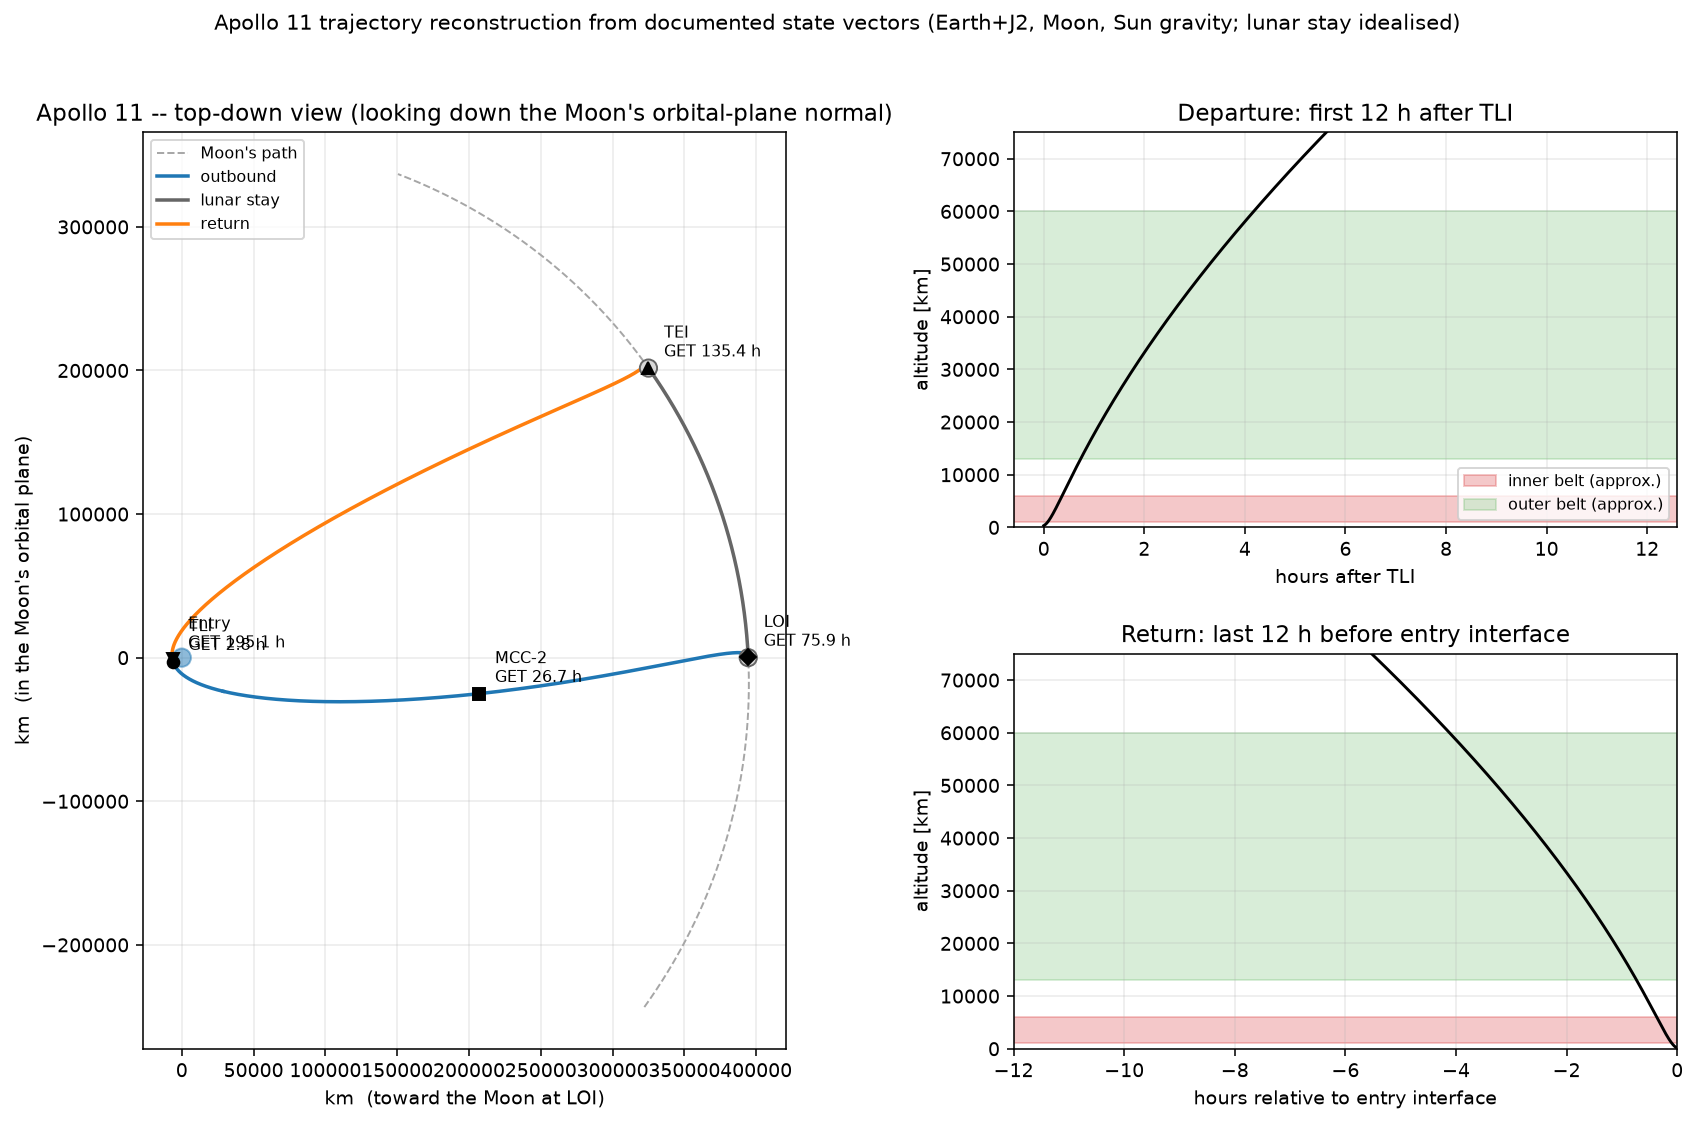
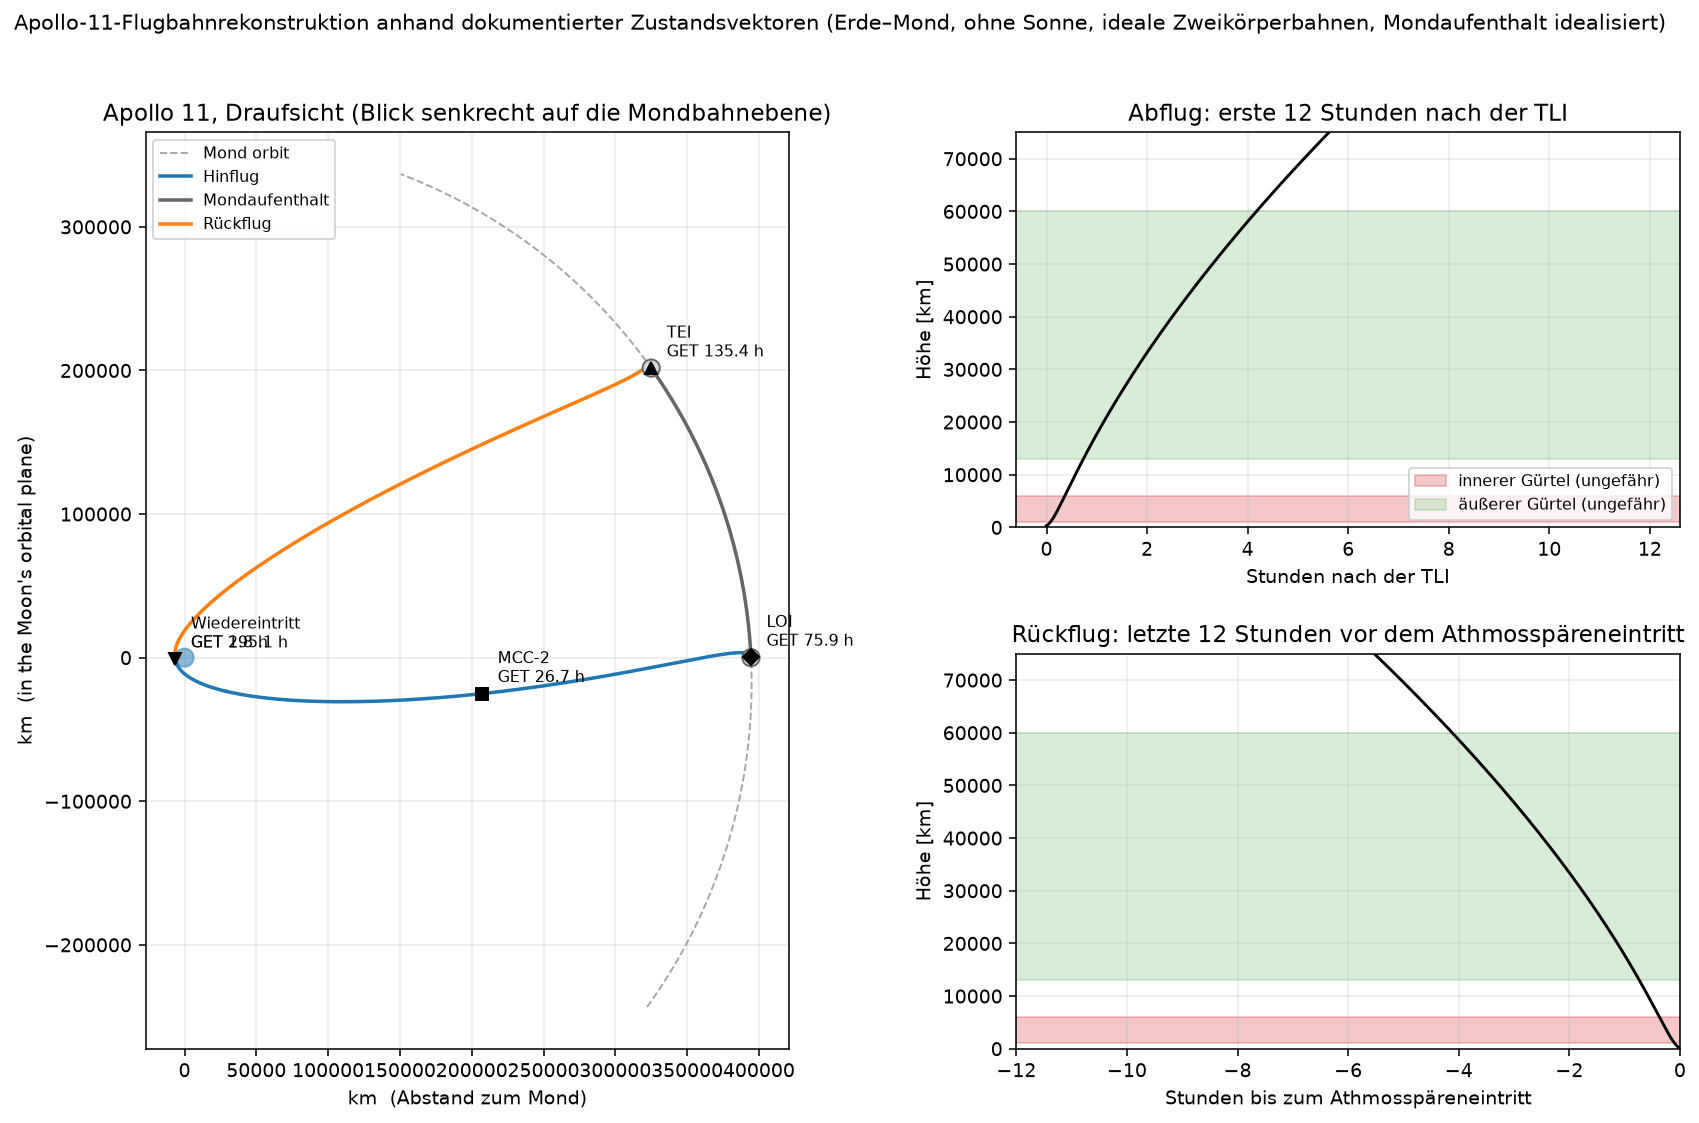
translations

diff --git a/Python Backend/main.py b/Python Backend/main.py
@@ -32,10 +32,8 @@ from funcs_classes import (Ephemeris, Dynamics, state_from_geocentric, precessio
 H = 3600.0
 unit = lambda v: v / np.linalg.norm(v)
 
-
-# ===========================================================================
 # 0. Setup
-# ===========================================================================
+
 eph = Ephemeris(D.GET_TLI, D.GET_ENTRY_INTERFACE + H)
 dyn = Dynamics(eph)
 
@@ -65,18 +63,18 @@ def log(s=""):
     print(s); report.append(s)
 
 
-# ===========================================================================
+
 # 1. CHECK (unfitted): what does the documented TLI vector do on its own?
-# ===========================================================================
+
 free = dyn.propagate(y_tli, D.GET_TLI, D.GET_LOI1 + 3 * H)
 t_free, d_free = closest_approach_to_moon(free, D.GET_LOI1 - 4 * H, D.GET_LOI1 + 3 * H)
 log("CHECK 1 - TLI vector alone, no midcourse burns, full Earth+Moon+Sun gravity:")
 log(f"  reaches the Moon at GET {t_free/H:.2f} h (real LOI: {D.GET_LOI1/H:.2f} h), "
     f"closest approach {d_free - D.LUNAR_RADIUS_KM:,.0f} km above the surface")
 
-# ===========================================================================
+
 # 2. Outbound: TLI -> separation burn -> MCC-2 -> pericynthion
-# ===========================================================================
+
 seg_tli_sep = dyn.propagate(y_tli, D.GET_TLI, D.GET_SEPARATION_BURN)
 y = seg_tli_sep.y[:, -1].copy()
 y[3:] -= D.SEPARATION_BURN_DV_KMS * unit(y[3:])           # [ASSUMED] retrograde
@@ -139,9 +137,9 @@ loi_dv = np.linalg.norm(rel_v) - v_post
 log(f"CHECK 2 - implied LOI burn: {loi_dv*1000:.0f} m/s retrograde (approach speed "
     f"{np.linalg.norm(rel_v):.3f} km/s -> {v_post:.3f} km/s)")
 
-# ===========================================================================
+
 # 3. Return: TEI -> entry interface   (Lambert seed + full-force correction)
-# ===========================================================================
+
 t_tei, t_ei = D.GET_TEI, D.GET_ENTRY_INTERFACE
 moon_tei, moon_vel_tei = eph.moon(t_tei), eph.moon_vel(t_tei)
 to_j2000 = precession_matrix(t_ei).T
@@ -217,9 +215,9 @@ log(f"CHECK 4 - implied TEI burn {tei_dv*1000:.0f} m/s (about 1 km/s expected)")
 log(f"CHECK 5 - implied entry longitude {lon_ei:.1f} deg E; documented splashdown "
     f"13.3 N, 169.2 W is ~1,500 nmi downrange")
 
-# ===========================================================================
+
 # 4. Sample the full trajectory
-# ===========================================================================
+
 def sample(sol, t0, t1, dt):
     ts = np.arange(t0, t1, dt)
     return ts, sol.sol(ts)[:3].T
@@ -248,9 +246,9 @@ all_t = np.concatenate([l[1] for l in legs])
 all_p = np.vstack([l[2] for l in legs])
 alt = np.linalg.norm(all_p, axis=1) - D.R_EARTH
 
-# ---------------------------------------------------------------------------
+
 # Van Allen belts -- v1 model: spherical altitude shells (no geomagnetic tilt)
-# ---------------------------------------------------------------------------
+
 INNER = (1000.0, 6000.0)        # km altitude  [approximate]
 OUTER = (13000.0, 60000.0)
 
@@ -263,16 +261,16 @@ def dwell(t, a, band):
 
 out_mask = all_t < D.GET_TLI + 12 * H
 ret_mask = all_t > t_ei - 12 * H
-log("\nVAN ALLEN BELTS (v1 spherical-shell approximation, NOT the real geomagnetic geometry):")
+log("\nVAN ALLEN BELTS (v1 spherical approximation):")
 for name, m in (("outbound (first 12 h)", out_mask), ("return (last 12 h)", ret_mask)):
     log(f"  {name:22s} inner shell {dwell(all_t[m], alt[m], INNER)/60:6.1f} min | "
         f"outer shell {dwell(all_t[m], alt[m], OUTER)/60:6.1f} min")
-log("  (published estimate using geomagnetic coordinates: ~14 min inside the proton-belt limits, "
-    "outbound -- Hutchison)")
+#log("  (published estimate using geomagnetic coordinates: ~14 min inside the proton-belt limits, "
+#    "outbound -- Hutchison)")
 
-# ===========================================================================
+
 # 5. Figure
-# ===========================================================================
+
 moon_orbit_normal = unit(np.cross(eph.moon(D.GET_LOI1), eph.moon_vel(D.GET_LOI1)))
 e1 = unit(eph.moon(D.GET_LOI1))
 e2 = np.cross(moon_orbit_normal, e1)
@@ -287,18 +285,18 @@ axC = fig.add_subplot(gs[1, 1])
 # --- A: top-down, looking down the Moon's orbital-plane normal -------------
 mt = np.arange(D.GET_TLI, t_ei, 600.0)
 mp = proj(np.array([eph.moon(t) for t in mt]))
-axA.plot(mp[:, 0], mp[:, 1], "--", color="0.65", lw=1, label="Moon's path")
+axA.plot(mp[:, 0], mp[:, 1], "--", color="0.65", lw=1, label="Mond orbit")
 colors = {"tli_to_separation": "tab:blue", "separation_to_mcc2": "tab:blue",
           "mcc2_to_pericynthion": "tab:blue", "lunar_stay_idealised": "0.4", "transearth": "tab:orange"}
 done = set()
 for label, ts, ps in legs:
     q = proj(ps)
-    key = "outbound" if colors[label] == "tab:blue" else ("return" if label == "transearth" else "lunar stay")
+    key = "Hinflug" if colors[label] == "tab:blue" else ("Rückflug" if label == "transearth" else "Mondaufenthalt")
     axA.plot(q[:, 0], q[:, 1], color=colors[label], lw=1.8, label=None if key in done else key)
     done.add(key)
 axA.add_patch(plt.Circle((0, 0), D.R_EARTH, color="tab:blue", alpha=0.5, zorder=3))
-for t, name, mk in ((D.GET_TLI, "TLI", "o"), (D.GET_MCC2, "MCC-2", "s"), (T_PERI, "LOI", "D"),
-                    (t_tei, "TEI", "^"), (t_ei, "Entry", "v")):
+for t, name, mk in ((D.GET_TLI, "", ""), (D.GET_MCC2, "MCC-2", "s"), (T_PERI, "LOI", "D"),
+                    (t_tei, "TEI", "^"), (t_ei, "Wiedereintritt", "v")):
     pt = proj(eph.moon(t) if name in ("LOI", "TEI") else
               (pos0 if name == "TLI" else
                (seg_sep_mcc.sol(t)[:3] if name == "MCC-2" else y_ei[:3])))[0]
@@ -308,29 +306,29 @@ for t, name in ((D.GET_LOI1, "Moon at LOI"), (t_tei, "Moon at TEI")):
     c = proj(eph.moon(t))[0]
     axA.add_patch(plt.Circle(c, 6000, fc="0.85", ec="0.4", zorder=2))   # Moon radius exaggerated 3.5x
 axA.set_aspect("equal"); axA.grid(alpha=0.25)
-axA.set_xlabel("km  (toward the Moon at LOI)"); axA.set_ylabel("km  (in the Moon's orbital plane)")
-axA.set_title("Apollo 11 -- top-down view (looking down the Moon's orbital-plane normal)")
+axA.set_xlabel("km  (Abstand zum Mond)"); axA.set_ylabel("km  (in the Moon's orbital plane)")
+axA.set_title("Apollo 11, Draufsicht (Blick senkrecht auf die Mondbahnebene)")
 axA.legend(loc="upper left", fontsize=8)
 
 # --- B/C: altitude vs time with belt bands ----------------------------------
 def belt_panel(ax, mask, t_ref, title, xlabel):
-    ax.axhspan(*INNER, color="tab:red", alpha=0.25, label="inner belt (approx.)")
-    ax.axhspan(*OUTER, color="tab:green", alpha=0.18, label="outer belt (approx.)")
+    ax.axhspan(*INNER, color="tab:red", alpha=0.25, label="innerer Gürtel (ungefähr)")
+    ax.axhspan(*OUTER, color="tab:green", alpha=0.18, label="äußerer Gürtel (ungefähr)")
     ax.plot((all_t[mask] - t_ref) / H, alt[mask], color="k", lw=1.5)
-    ax.set_title(title); ax.set_xlabel(xlabel); ax.set_ylabel("altitude [km]"); ax.grid(alpha=0.25)
+    ax.set_title(title); ax.set_xlabel(xlabel); ax.set_ylabel("Höhe [km]"); ax.grid(alpha=0.25)
     ax.set_ylim(0, 75000)
 
-belt_panel(axB, out_mask, D.GET_TLI, "Departure: first 12 h after TLI", "hours after TLI")
+belt_panel(axB, out_mask, D.GET_TLI, "Abflug: erste 12 Stunden nach der TLI", "Stunden nach der TLI")
 axB.legend(fontsize=8, loc="lower right")
-belt_panel(axC, ret_mask, t_ei, "Return: last 12 h before entry interface", "hours relative to entry interface")
+belt_panel(axC, ret_mask, t_ei, "Rückflug: letzte 12 Stunden vor dem Athmosspäreneintritt", "Stunden bis zum Athmosspäreneintritt")
 axC.set_xlim(-12, 0)
-fig.suptitle("Apollo 11 trajectory reconstruction from documented state vectors "
-             "(Earth+J2, Moon, Sun gravity; lunar stay idealised)", fontsize=11)
+fig.suptitle("Apollo-11-Flugbahnrekonstruktion anhand dokumentierter Zustandsvektoren (Erde–Mond, ohne Sonne, ideale Zweikörperbahnen, "
+             "Mondaufenthalt idealisiert)", fontsize=11)
 fig.savefig("apollo11_trajectory.png", dpi=140, bbox_inches="tight")
 
-# ===========================================================================
+
 # 6. Export (stable intermediate format for a future 3D / interactive viewer)
-# ===========================================================================
+
 export = {
     "meta": {"frame": "Earth-centred inertial, J2000 axes", "units": {"t": "GET s", "pos": "km"},
              "range_zero_utc": D.RANGE_ZERO_UTC, "ephemeris": "astropy builtin",
